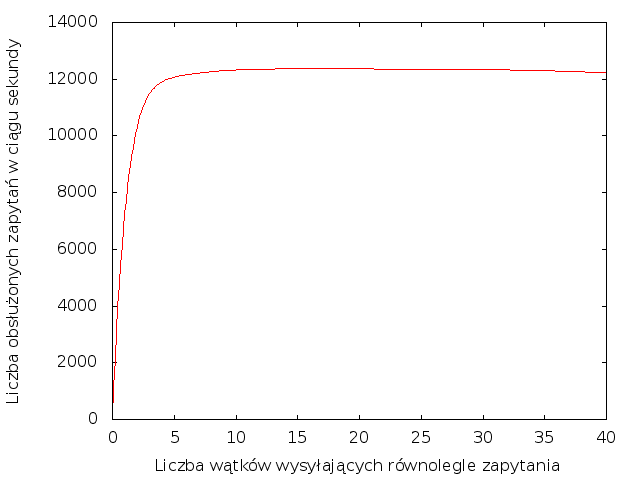
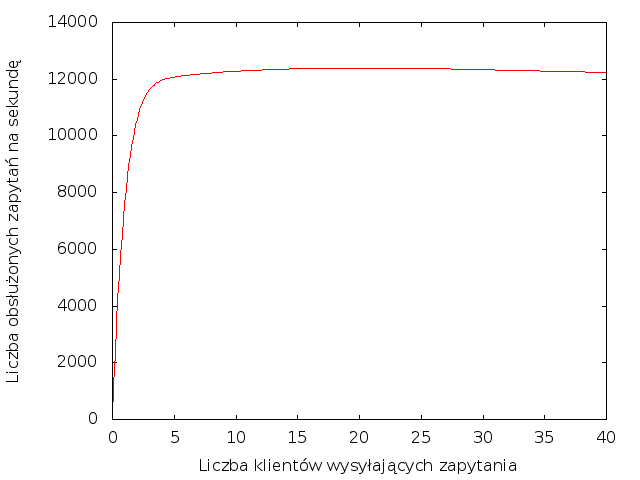
added fixed plots

diff --git a/docs/FirstTechnicalDocumentation.tex b/docs/FirstTechnicalDocumentation.tex
@@ -455,7 +455,7 @@ Taki model systemu może zapewnić dużą skalowalność systemu. W przyszłośc
 	Po pierwszym etapie implementacji podjęliśmy pierwszą próbę zmierzenia wydajności systemu. Testy wydajności zostały przeprowadzone za pomocą programu Apache Benchmark. Jako że do tej pory aplikacja była uruchamiana jedynie z użyciem jednej maszyny z jedną karta graficzną, testy zostały przeprowadzone w takim samym środowisku. Testy zostały przeprowadzone po to, by dać nam podstawowe pojęcie o ograniczeniach obecnej implementacji systemu. Testy przeprowadzane po kolejnych etapach implementacji będą ważnym składnikiem oceny wydajności projektu
 	
 		\subsubsection{Test wydajności umieszczania danych na karcie}
-		W tym teście wykonywano $20000$ zapytań typu Insert przez kolejno $1, 2, 3, 4, 5, 6, 7, 8, 10, 15, 30, 40$ równoległych wątków. Dane z tego testu przedstawione są na wykresach \ref{fig:concurrency} i \ref{fig:concurrencyPerThread}. 
+		W tym teście wykonywano $20000$ zapytań typu Insert przez kolejno $1, 2, 3, 4, 5, 6, 7, 8, 10, 15, 30, 40$ wątków klienta. Dane z tego testu przedstawione są na wykresach \ref{fig:concurrency} i \ref{fig:concurrencyPerThread}. 
 		\begin{figure}[ht!]
 	\centering
 	\caption{Liczba zapytań na sekundę}
@@ -474,7 +474,7 @@ Taki model systemu może zapewnić dużą skalowalność systemu. W przyszłośc
 Rysunek \ref{fig:concurrency} pokazuje, że liczba zapytań obsłużonych w ciągu sekundy przestaje rosnąć, gdy osiągnie wartość ok 12000. Jest to w pewnym przybliżeniu maksymalna liczba zapytań jaką system jest w stanie obsłużyć w ciągu sekundy. Oczywiście należy wziąć pod uwagę, że wyniki mogą różnić się w zależności od mocy sprzętu, na którym uruchamiany jest program. 
 
 
-Na wykresie \ref{fig:threads} przedstawiony jest wynik testu, w którym wysyłano $100000$ zapytań za pomocą kolejno $1, 20, 50, 100$ równoległych wątków. Czas odpowiedzi na zapytania dla każdej serii umieszczono na jednym wykresie. Pokazuje to różnicę w czasie przetwarzania żądania w zależności od liczby równoległych zapytań.
+Na wykresie \ref{fig:threads} przedstawiony jest wynik testu, w którym wysyłano $100000$ zapytań przez kolejno $1, 20, 50, 100$ wątków klienta. Czas odpowiedzi na zapytania dla każdej serii umieszczono na jednym wykresie. Pokazuje to różnicę w czasie przetwarzania żądania w zależności od liczby równoległych zapytań.
 
 		\begin{figure}[ht!]
 	\centering
